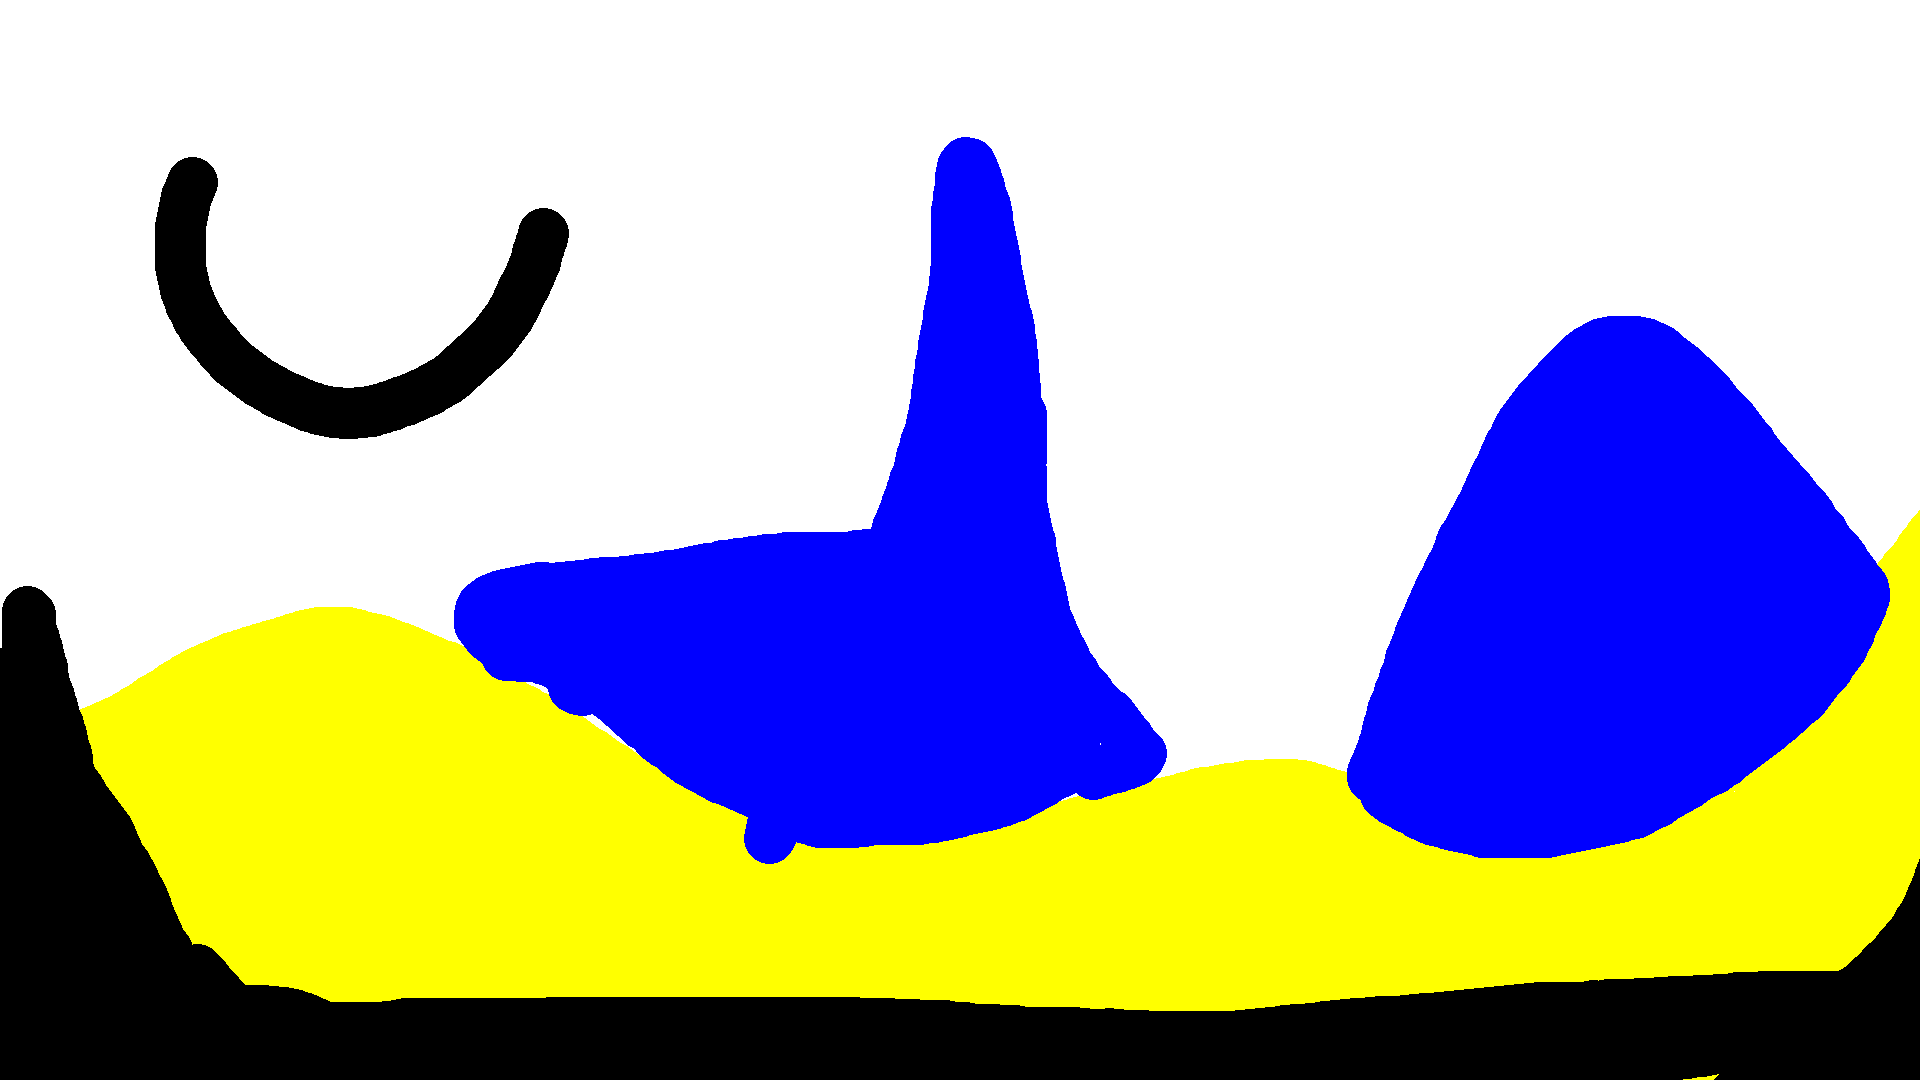
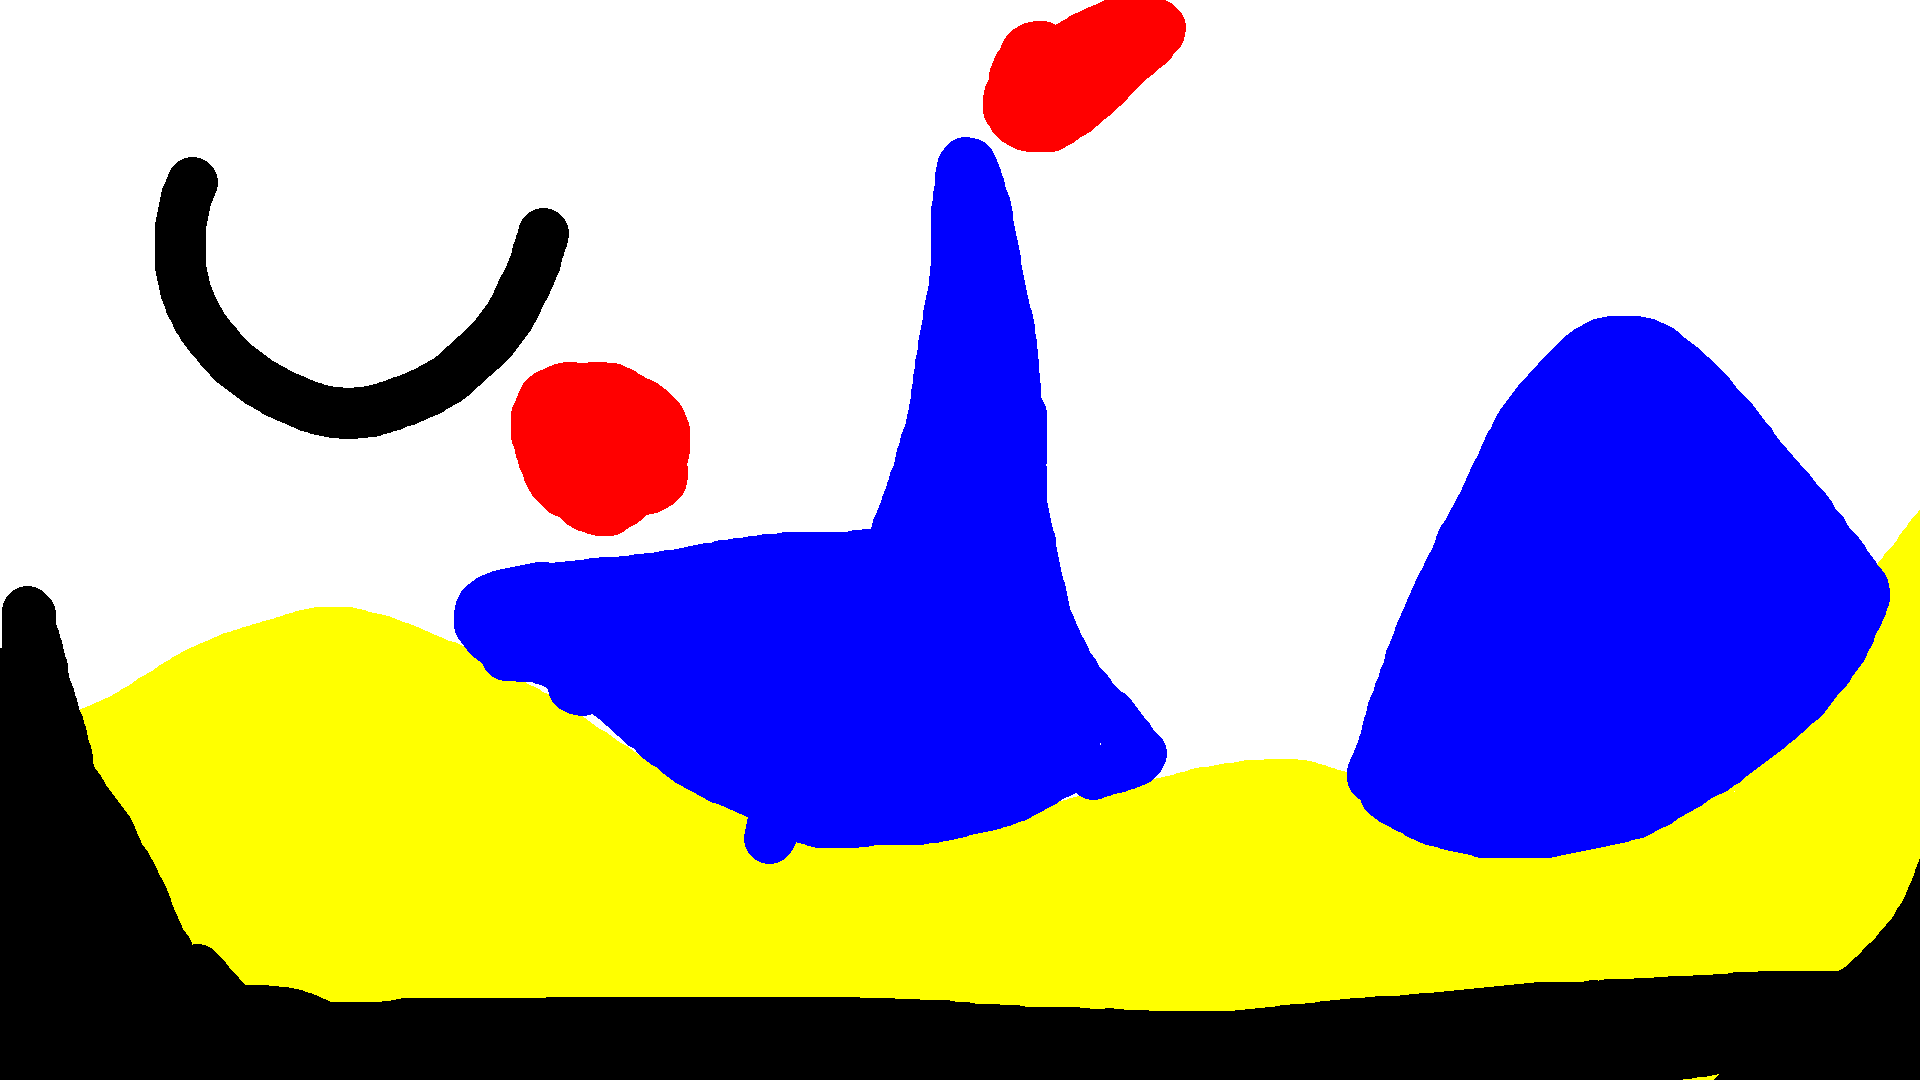
fire tu update

Changed region(s): [[0.25, 0.3361, 0.375, 0.4889], [0.5, 0.0, 0.625, 0.1528]]

diff --git a/game/serv/in_game/particles.py b/game/serv/in_game/particles.py
@@ -75,12 +75,54 @@ class Sand:
                     return (True,(self.x,self.y),to_add) #if moved
         
         return (False,(None,None),None) #if not moved
-    
+
 class Wood:
     def __init__(self,x,y):
         self.x = x
         self.y = y
-        self.color = (0,0,0)
+        r = random.randint(0,20)
+        self.color = (88-r,41-r,random.randint(0, 20))
+
+class Fire:
+    def __init__(self,x,y,life = 255):
+        self.x = x
+        self.y = y
+        self.life = life
+        self.color = (random.randint(180,255),random.randint(0,20),0,self.life)
+
+    def update_position(self,grid,cells_h,cells_w):
+
+        to_add = set()
+
+        if random.random()<0.5:
+            for i in range(-1,2):
+                for j in range(-1,2):
+                    if grid[self.y+i][self.x+j].__class__.__name__ == "Wood" and random.random()<0.8:
+                        grid[self.y+i][self.x+j] = Fire(self.x+j,self.y+i,255)
+                        to_add.add((self.x+j,self.y+i))
+
+        if random.random()<0.30 :
+            to_add.add((self.x,self.y+1))
+            return (None,(None,None),to_add)
+        
+        if self.life < 0 :
+            to_add.add((self.x,self.y+1))
+            return (None,(None,None),to_add)
+        
+        choice = random.choice([-1,0,1])
+
+        if grid[self.y-1][self.x+choice] is None :
+            to_add.add((self.x,self.y))
+            to_add.add((self.x+choice,self.y-1))
+
+            grid[self.y-1][self.x+choice] = Fire(self.x+choice,self.y-1,self.life-20)
+
+            #self.y -=1
+
+            return (True,(self.x,self.y),to_add)
+
+        to_add.add((self.x,self.y))
+        return (True,(self.x,self.y),to_add) #if not moved
 
 class Water:
     def __init__(self,x,y,w,h,life=40):
@@ -118,7 +160,7 @@ class Water:
             self.cur_life = self.base_life
             to_add.add((self.x, self.y))
 
-            return (True,( self.x,self.y),to_add) #if moved
+            return (True,(self.x,self.y),to_add) #if moved
 
         else:#elif random.random() < 1:  # essaie de moins unifier le sable:
 
@@ -205,81 +247,4 @@ class Water:
                         #else :
                          #   return (False,(None,None),None) #if not moved
     
-        return (False,(None,None),None) #if not moved
-    
-
-class Fire:
-    def __init__(self,x,y,life = 20):
-        self.x = x
-        self.y = y
-        self.life = life
-        #self.density = density
-        self.color = (random.randint(200,255),random.randint(0,55),0)
-
-    def can_move(self,el):
-        return el is None or el.__class__.__name__ == "Wood"
-
-    def update_position(self,grid,cells_h,cells_w):
-
-        to_add = set()
-
-        #if self.y - 1 >= 0: #A opti
-         #   to_add.add((self.x, self.y - 1))
-
-        if self.y + 1 < cells_h and self.can_move(grid[self.y + 1][self.x]):
-
-            # on ajoute les voisins à surveiller
-            if self.y - 1 >= 0:
-                to_add.add((self.x, self.y - 1))
-
-            if self.x + self.density[0] < cells_w:
-                to_add.add((self.x + self.density[0], self.y - 1))
-
-            if self.x - self.density[0] >= 0:
-                to_add.add((self.x - self.density[0], self.y - 1))
-
-            to_add.add((self.x, self.y + 1))
-            to_add.add((self.x,self.y))
-            self.y += 1
-
-            return (True,( None,None),to_add) #if moved
-
-        else:#elif random.random() < 1:  # essaie de moins unifier le sable:
-
-            for i in range(1,self.density[0]+1):
-
-                if self.y + 1 < cells_h and self.x - i >= 0 and self.can_move(grid[self.y + 1][self.x - i]):
-                    # on ajoute les voisins à surveiller
-                    if self.y - 1 >= 0:
-                        to_add.add((self.x, self.y - 1))
-
-                    for j in range(1,self.density[0]+1):
-                        if self.x + j < cells_w:
-                            to_add.add((self.x + j, self.y - 1))
-                        
-                        to_add.add((self.x - i, self.y + 1))
-
-
-                    self.x -= i
-                    self.y += 1
-                    
-                    return (True,(self.x,self.y),to_add) #if moved
-
-                elif self.y + 1 < cells_h and self.x + i < cells_w and self.can_move(grid[self.y + 1][self.x + i]):
-                    # on ajoute les voisins à surveiller
-                    if self.y - 1 >= 0:
-                        to_add.add((self.x, self.y - 1))
-
-                    for j in range(1,self.density[0]+1):
-                        if self.x - j >= 0:
-                            to_add.add((self.x - j, self.y - 1))
-                        
-                        to_add.add((self.x + j, self.y + 1))
-
-
-                    self.x += i
-                    self.y += 1
-
-                    return (True,(self.x,self.y),to_add) #if moved
-        
         return (False,(None,None),None) #if not moved

diff --git a/game/serv/in_game/read_map.py b/game/serv/in_game/read_map.py
@@ -1,5 +1,5 @@
 import pygame
-from serv.in_game.particles import Sand,Wood, Water
+from serv.in_game.particles import Sand,Wood, Water, Fire
 
 class Read_map:
     def __init__(self, filename, size,canva_size):
@@ -53,6 +53,9 @@ class Read_map:
                         self.grid[cy][cx] = Water(cx,cy,self.cells_w,self.cells_h)
                         self.cell_to_update.add((cx,cy))
                         #color = (0,0,255)
+                    elif color == (255,0,0):
+                        self.grid[cy][cx] = Fire(cx,cy)
+                        self.cell_to_update.add((cx,cy))
                     else :
                         self.grid[cy][cx] = Wood(cx,cy)  # noir indestructible
 
@@ -97,7 +100,7 @@ class Read_map:
         cx = x // self.cell_size
         cy = y // self.cell_size
         if 0 <= cx < self.cells_w and 0 <= cy < self.cells_h:
-            if self.grid[cy][cx] is not None and self.grid[cy][cx] != (0, 0, 0):  # noir indestructible
+            if self.grid[cy][cx] is not None and self.grid[cy][cx].__class__.__name__ != "Wood":  # noir indestructible
                 self.destroy_rect(cx,cy, size)
             elif self.grid[cy][cx] is None:
                 self.create_circle_sand(cx,cy,size*2)
@@ -143,13 +146,16 @@ class Read_map:
 
         for (x, y) in self.cell_to_update:
             
-            if self.grid[y][x] is not None and self.grid[y][x].color != (0, 0, 0):  # si la cellule existe et n'est pas noire
+            if self.grid[y][x] is not None and self.grid[y][x].__class__.__name__ != "Wood":  # si la cellule existe et n'est pas noire
                 
                 moved, (newx, newy), new_set = self.grid[y][x].update_position(self.grid,self.cells_h,self.cells_w)
 
                 if moved is None:
                     self.destroy_cell(x,y)
                     to_update.append((x,y,(255,255,255,0)))
+                    
+                    if new_set is not None :
+                        to_add |= new_set
 
                 elif moved is True: 
                         if newx is not None:
@@ -161,7 +167,8 @@ class Read_map:
                             to_update.append((newx,newy,self.grid[y][x].color))
                             self.update_cell(x,y,newx,newy)
 
-                        to_add |= new_set                 
+                        if new_set is not None :
+                            to_add |= new_set                 
                 
 
             to_remove.add((x, y))
@@ -193,7 +200,7 @@ class Read_map:
         if self.grid[y][x] is None :
             self.canva.fill((255, 255, 255, 0), self.rect_grid[y][x])
         else :
-            pygame.draw.rect(self.canva, self.grid[y][x].color, self.rect_grid[y][x])
-            self.grid[y][x].x , self.grid[y][x].y = x,y
+            self.canva.fill(self.grid[y][x].color, self.rect_grid[y][x])
+            #self.grid[y][x].x , self.grid[y][x].y = x,y
         # dessiner à la nouvelle position
-        pygame.draw.rect(self.canva, self.grid[newy][newx].color, self.rect_grid[newy][newx])
+        self.canva.fill(self.grid[newy][newx].color, self.rect_grid[newy][newx])
